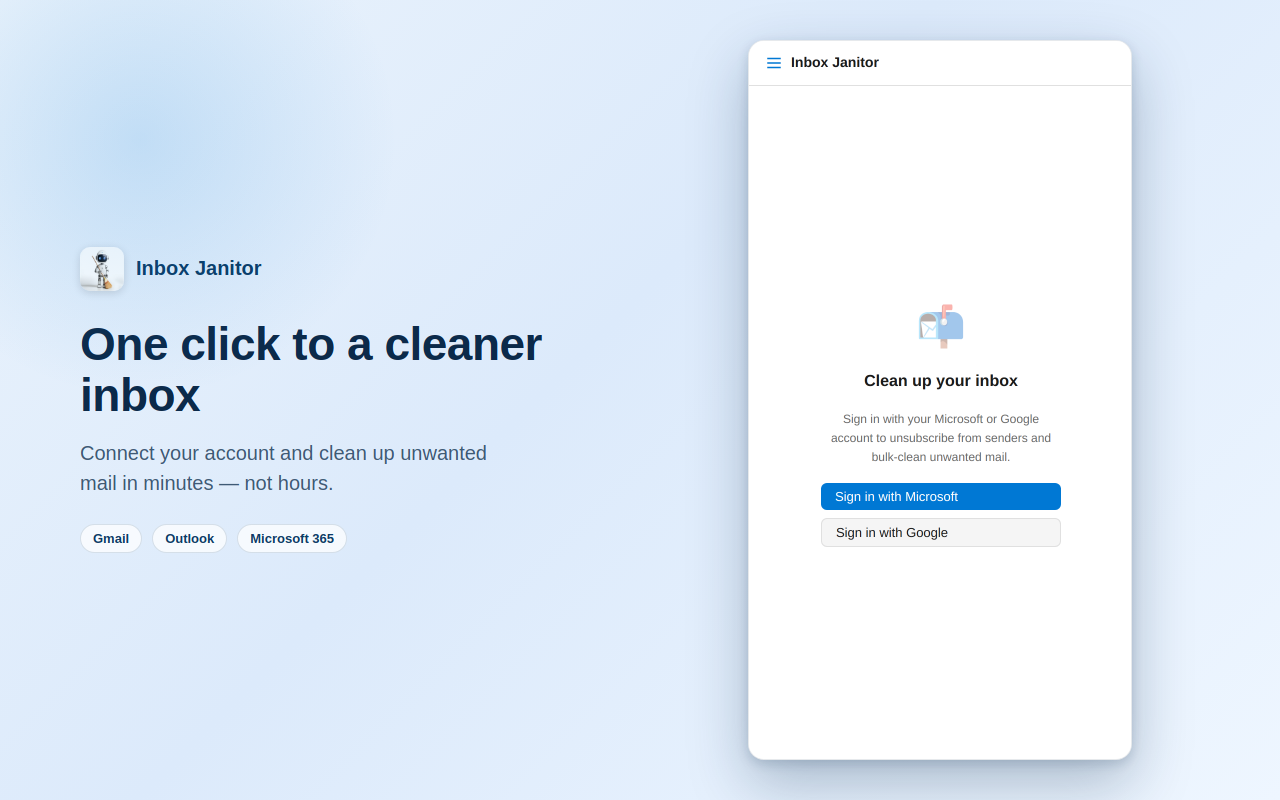
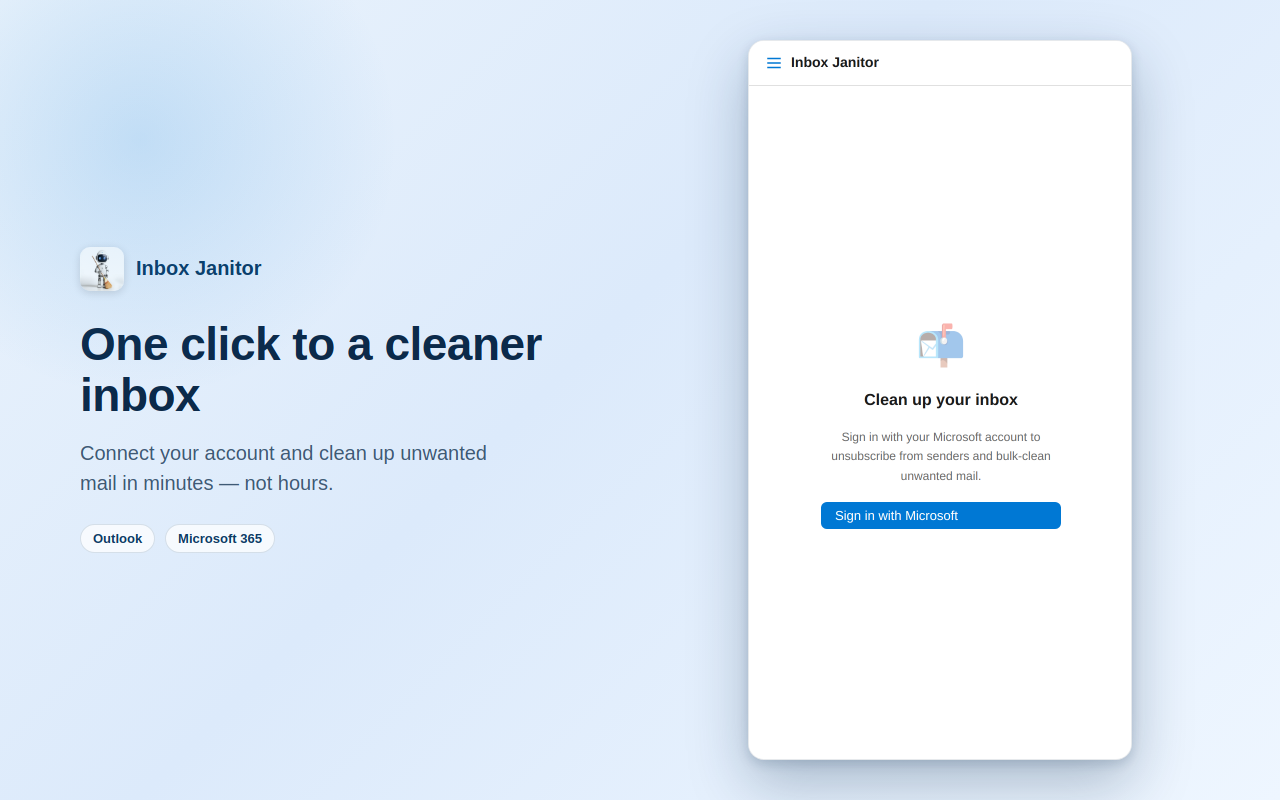
feat: Outlook-only v1.0 launch build (Gmail behind a flag)
Prep a clean public v1.0 that ships Microsoft/Outlook only, since Gmail's
gmail.modify is a Google restricted scope that can't serve the public until
verification is approved. Gmail stays fully coded — just gated off — so v1.1
is a mechanical re-enable.

- config.ts: add GMAIL_ENABLED feature flag (false)
- App.tsx: hide the Google sign-in button and adjust sign-in copy when off
- manifest.json: drop the Google host permissions + oauth2 key and the Gmail
  mention in the description, so v1.0 requests no unused sensitive permissions
  (avoids the #1 review-delay cause). Packaged manifest verified Google-free.
- check-config.mjs + gen-store-assets.mjs: honor the flag (checker no longer
  demands a Google ID; assets drop the Gmail badge/copy) — flip the flag and
  both auto-restore Gmail
- STORE_LISTING.md: revert to Outlook-only copy for the v1.0 submission
- docs/ENABLE_GMAIL_V1.1.md: step-by-step re-enable playbook, including
  optional-permissions so adding Gmail in v1.1 doesn't disrupt existing users
- regenerate store-assets (signed-out now Microsoft-only; Deleted Items copy)

Claude-Session: https://claude.ai/code/session_01BEhcx6Ve2fmbULTRWSwo9K

Changed region(s): [[0.625, 0.375, 0.8438, 0.6875], [0.0625, 0.6562, 0.2812, 0.6875]]

diff --git a/src/sidepanel/App.tsx b/src/sidepanel/App.tsx
@@ -17,7 +17,7 @@ import {
 } from '../gmail/messages.js';
 import { getUnsubscribeHeader, executeUnsubscribe } from '../graph/unsubscribe.js';
 import { getGmailUnsubscribeHeader } from '../gmail/unsubscribe.js';
-import { CACHE_TTL_MS } from '../config.js';
+import { CACHE_TTL_MS, GMAIL_ENABLED } from '../config.js';
 import type {
   AuthTokens,
   SenderGroup,
@@ -524,8 +524,8 @@ export function App() {
           <div class="signed-out-icon">📬</div>
           <h2>Clean up your inbox</h2>
           <p>
-            Sign in with your Microsoft or Google account to unsubscribe from senders and bulk-clean
-            unwanted mail.
+            Sign in with your {GMAIL_ENABLED ? 'Microsoft or Google' : 'Microsoft'} account to
+            unsubscribe from senders and bulk-clean unwanted mail.
           </p>
           <div
             style={{
@@ -544,14 +544,16 @@ export function App() {
             >
               {loading ? 'Signing in…' : 'Sign in with Microsoft'}
             </button>
-            <button
-              class="btn btn-secondary"
-              onClick={() => void handleGoogleSignIn()}
-              disabled={loading}
-              data-testid="sign-in-google-btn"
-            >
-              {loading ? 'Signing in…' : 'Sign in with Google'}
-            </button>
+            {GMAIL_ENABLED && (
+              <button
+                class="btn btn-secondary"
+                onClick={() => void handleGoogleSignIn()}
+                disabled={loading}
+                data-testid="sign-in-google-btn"
+              >
+                {loading ? 'Signing in…' : 'Sign in with Google'}
+              </button>
+            )}
           </div>
           {error && (
             <div class="error-banner" role="alert">

diff --git a/src/config.ts b/src/config.ts
@@ -12,6 +12,12 @@ export const MS_AUTHORITY = `https://login.microsoftonline.com/${MS_TENANT}`;
 
 export const GRAPH_BASE = 'https://graph.microsoft.com/v1.0';
 
+// Feature flag: Gmail / Google sign-in.
+// OFF for the Outlook-only v1.0 public launch — Gmail's `gmail.modify` is a Google
+// restricted scope and cannot serve the public until Google verification is approved.
+// Flip to `true` for v1.1 once verified; full re-enable steps in docs/ENABLE_GMAIL_V1.1.md.
+export const GMAIL_ENABLED = false;
+
 // Core scopes — requested at sign-in. Mail.Send is incremental (requested on demand).
 export const CORE_SCOPES = [
   'openid',

diff --git a/STORE_LISTING.md b/STORE_LISTING.md
@@ -1,95 +1,98 @@
-# Chrome Web Store Listing — Inbox Janitor
+# Chrome Web Store Listing — Inbox Janitor (v1.0, Outlook-only)
+
+> **Launch scope:** v1.0 ships Microsoft/Outlook only. The Gmail additions for the v1.1 listing
+> (extra bullets, "works with Gmail", Google data-handling answers) live in
+> `docs/ENABLE_GMAIL_V1.1.md` — do **not** mention Gmail in the v1.0 submission, since the v1.0 build
+> requests no Google permissions.
 
 ## Name
 Inbox Janitor
 
 ## Short Description (max 132 characters)
-Bulk unsubscribe and clean up your Gmail or Outlook inbox. Group senders, then archive, delete, and unsubscribe in one click.
+Bulk unsubscribe and clean up your Outlook / Microsoft 365 inbox — group senders, archive, delete, or unsubscribe in a click.
 
-*(Current: 125 characters — within limit)*
+*(Current: 124 characters — within limit)*
 
 ## Category
 Productivity
 
 ## Single-Purpose Statement
-Inbox Janitor has a single purpose: to help Gmail, Outlook, and Microsoft 365 users unsubscribe from unwanted senders and bulk-archive or delete email from their inbox.
+Inbox Janitor has a single purpose: to help Outlook and Microsoft 365 users unsubscribe from unwanted senders and bulk-archive or delete email from their inbox.
 
 ## Detailed Description
 
 ```
-📬 Clean your Gmail or Outlook inbox in minutes, not hours.
+📬 Clean your Outlook inbox in minutes, not hours.
 
-Inbox Janitor connects to your Google or Microsoft account and groups your email by sender so you can see at a glance who's filling your inbox. Then clean up with one click.
+Inbox Janitor connects to your Microsoft account and groups your email by sender so you can see at a glance who's filling your inbox. Then clean up with one click.
 
 ✅ FEATURES
 
 • Sender grouping — scan your inbox and see every sender ranked by how many emails they've sent you
 • Bulk unsubscribe — select senders and unsubscribe automatically where supported (one-click RFC 8058), or open the unsubscribe page for you
-• Bulk archive or delete — select multiple senders and archive or move to Trash / Deleted Items in one action, with a live progress bar
-• Fast and safe — confirmation step shows the exact count before any action; archive is the default (recoverable); "delete" moves to Trash / Deleted Items, never a permanent purge
+• Bulk archive or delete — select multiple senders and archive or move to Deleted Items in one action, with a live progress bar
+• Fast and safe — confirmation step shows the exact count before any action; archive is the default (recoverable); "delete" moves to Deleted Items, never a permanent purge
 • Search and sort — filter by name/email, sort by message count, most recent, or A–Z
 
 🔒 PRIVACY FIRST
 
 • Processes email metadata locally in your browser — no email content ever leaves your device to a third-party server
-• Communicates only with the official Gmail API or Microsoft Graph API using your own secure OAuth token
+• Communicates only with the official Microsoft Graph API using your own secure OAuth token
 • No analytics, no tracking, no ads
 • Sign out clears all stored tokens and cached data instantly
 
 📥 WORKS WITH
 
-• Google Gmail (personal and Google Workspace accounts)
 • Personal Outlook (outlook.com, live.com, hotmail.com)
 • Microsoft 365 work and school accounts
 
-Note: Some corporate M365 or Google Workspace tenants require an admin to grant consent for third-party apps. If you see an "Admin approval required" screen, ask your IT administrator to approve Inbox Janitor.
+Note: Some corporate M365 tenants require an IT admin to grant consent for third-party apps. If you see an "Admin approval required" screen, ask your IT administrator to approve Inbox Janitor.
 
 ⚙ HOW IT WORKS
 
 1. Click the Inbox Janitor toolbar button to open the side panel
-2. Sign in with your Google or Microsoft account
+2. Sign in with your Microsoft account
 3. See your senders grouped and ranked
 4. Select senders to unsubscribe, archive, or delete
 5. Done — your inbox is cleaner
 ```
 
 ## Single-Purpose Statement (store form field)
-"Help Gmail, Outlook, and Microsoft 365 users unsubscribe from unwanted senders and bulk-clean their inbox."
+"Help Outlook and Microsoft 365 users unsubscribe from unwanted senders and bulk-clean their inbox."
 
 ## Data Handling Answers (Chrome Web Store form)
 
 **Does your extension collect or use any personal or sensitive user data?**
-Yes — the extension requests access to the user's Google or Microsoft email account via OAuth. It reads email metadata (sender addresses, dates) to build a sender list, and performs actions (archive, delete/trash, unsubscribe) at the user's explicit request.
+Yes — the extension requests access to the user's Microsoft email account via OAuth. It reads email metadata (sender addresses, dates) to build a sender list, and performs actions (archive, delete, unsubscribe) at the user's explicit request.
 
 **What data does your extension collect or transmit?**
-The extension accesses email metadata (sender address, display name, message date, message IDs) and email headers (`From`, `Date`, `List-Unsubscribe` — for unsubscribe parsing). This data is processed locally in the browser. It is not transmitted to any developer-controlled server.
+The extension accesses email metadata (sender address, display name, message date, message IDs) and email headers (for unsubscribe parsing). This data is processed locally in the browser. It is not transmitted to any developer-controlled server.
 
 **How is the data used?**
-Solely to display the sender list in the extension UI and to perform the email-management actions the user requests. No other use. (See the Google API Services Limited Use and Microsoft Graph Limited Use disclosures in the privacy policy.)
+Solely to display the sender list in the extension UI and to perform the email-management actions the user requests. No other use. (See the Microsoft Graph Limited Use disclosure in the privacy policy.)
 
 **How is the data stored?**
 OAuth tokens and a sender-grouping cache are stored in `chrome.storage.local` — local browser storage that is never accessible to the developer. All stored data is cleared on sign-out.
 
 **Do you share the data with third parties?**
-No. The extension communicates only with Google's Gmail API / Microsoft's Graph API and their respective authentication endpoints, which the user is already trusting as their email provider.
+No. The extension communicates only with Microsoft's Graph API and authentication endpoints, which the user is already trusting as their email provider.
 
-## Screenshots Required (capture these before submission)
+## Screenshots (in `store-assets/`)
 
-| # | Description | Recommended size |
+| # | File | Shows |
 |---|---|---|
-| 1 | Signed-out state — "Sign in with Microsoft" button | 1280×800 |
-| 2 | Sender list — showing 10+ senders, ranked by count | 1280×800 |
-| 3 | Multiple senders selected, action bar visible | 1280×800 |
-| 4 | Archive confirmation modal — shows total message count | 1280×800 |
-| 5 | Progress bar during bulk operation | 1280×800 |
+| 1 | `01-signed-out.png` | Signed-out — "Sign in with Microsoft" |
+| 2 | `02-sender-list.png` | Sender list, ranked by message count |
+| 3 | `03-select-and-act.png` | Multiple senders selected, action bar visible |
+| 4 | `04-safe-confirm.png` | Archive confirmation modal — exact message count |
 
-## Promo Tile Required
+All are 1280×800. (Chrome requires 1–5 screenshots.)
 
-- Small promo tile: 440×280 pixels (required for listing)
-- Large promo tile: 920×680 pixels (optional, for featuring)
+## Promo Tiles (in `store-assets/`)
 
-Content suggestion: extension name + tagline "Clean your Outlook inbox in minutes" on a clean, light background with the envelope/inbox icon.
+- Small promo tile — `promo-small-440x280.png` (440×280, required)
+- Marquee promo tile — `promo-marquee-1400x560.png` (1400×560, optional, for featuring)
 
 ## Privacy Policy URL
-[HUMAN SETUP] — Host PRIVACY_POLICY.html at a public URL and paste it here.
-Suggestion: GitHub Pages or your personal domain.
+Host `PRIVACY_POLICY.html` / `docs/index.html` on GitHub Pages and paste the URL here, e.g.
+`https://adityarungta2048.github.io/inbox-janitor/`

diff --git a/docs/ENABLE_GMAIL_V1.1.md b/docs/ENABLE_GMAIL_V1.1.md
@@ -1,0 +1,99 @@
+# Enabling Gmail — v1.1 Playbook
+
+v1.0 ships Outlook-only. Gmail is fully coded and tested but hidden behind a flag, because
+`gmail.modify` is a Google **restricted** scope that can't serve the public until Google's OAuth
+verification is approved. Once it is, turning Gmail on is a ~10-minute mechanical change — no rewrite.
+
+**Prerequisite:** Google restricted-scope verification approved (see `docs/GOOGLE_VERIFICATION.md`)
+and your **Chrome Extension** OAuth client ID in hand.
+
+---
+
+## 1. Flip the feature flag
+
+`src/config.ts`:
+```diff
+-export const GMAIL_ENABLED = false;
++export const GMAIL_ENABLED = true;
+```
+This un-hides the "Sign in with Google" button and updates the sign-in copy automatically.
+
+## 2. Add the Google entries back to `manifest.json`
+
+**Recommended — as _optional_ permissions**, so existing Outlook users are **not** disrupted (adding
+*required* host permissions in an update disables the extension until each user re-accepts; optional
+permissions are requested only when someone actually clicks "Sign in with Google").
+
+Add the `oauth2` key and an `optional_host_permissions` block (leave `host_permissions` as the two
+Microsoft hosts):
+```jsonc
+"optional_host_permissions": [
+  "https://gmail.googleapis.com/*",
+  "https://www.googleapis.com/*",
+  "https://accounts.google.com/*"
+],
+"oauth2": {
+  "client_id": "YOUR_REAL_ID.apps.googleusercontent.com",
+  "scopes": ["openid", "email", "profile", "https://www.googleapis.com/auth/gmail.modify"]
+}
+```
+
+Also re-add Gmail to the manifest `description`:
+```diff
+-"description": "Bulk unsubscribe, group senders, and clean up your Outlook or Microsoft 365 inbox in one click.",
++"description": "Bulk unsubscribe, group senders, and clean up your Outlook or Gmail inbox in one click.",
+```
+
+## 3. Request the optional permissions at sign-in
+
+Because the Gmail hosts are now *optional*, grant them at runtime from the button's user gesture.
+In `src/sidepanel/App.tsx`, at the top of `handleGoogleSignIn`, before `googleSignIn()`:
+```ts
+const granted = await chrome.permissions.request({
+  origins: [
+    'https://gmail.googleapis.com/*',
+    'https://www.googleapis.com/*',
+    'https://accounts.google.com/*',
+  ],
+});
+if (!granted) {
+  setError('Gmail access was not granted.');
+  setLoading(false);
+  return;
+}
+```
+(If you'd rather keep it simple and you have few users at v1.1 time, you can instead move the three
+hosts into the regular `host_permissions` and skip this step — but expect existing users to get a
+re-approval prompt on update.)
+
+## 4. Bump the version
+
+`manifest.json` and `package.json`:
+```diff
+-"version": "1.0.0"
++"version": "1.1.0"
+```
+
+## 5. Verify, regenerate assets, package
+
+```bash
+npm run check:config     # now requires the Google client ID too — should be green
+npm run ci               # build + typecheck + lint + test
+node scripts/gen-store-assets.mjs   # screenshots/promo auto-restore the Gmail badge + copy
+npm run package
+```
+
+## 6. Update the store listing
+
+Switch `STORE_LISTING.md` back to the dual-provider copy (Gmail + Outlook). The exact text to restore:
+
+- **Short description:** `Bulk unsubscribe and clean up your Gmail or Outlook inbox. Group senders, then archive, delete, and unsubscribe in one click.`
+- **Detailed description:** re-add the "Google Gmail (personal and Google Workspace accounts)" line under **WORKS WITH**, change the opener to "Clean your Gmail or Outlook inbox", and "Sign in with your Google or Microsoft account".
+- **Data-handling answers:** re-add Google/Gmail alongside Microsoft (the extension now reads Gmail metadata and modifies labels via `gmail.modify`).
+- Set the Google publishing status to **In production** once verification is approved.
+
+## 7. Submit the update
+
+Upload the new zip. The update is re-reviewed (adding Google permissions triggers a permissions
+review), but the Outlook functionality is unchanged. Existing users keep working; Gmail becomes
+available to everyone.

diff --git a/PERMISSIONS_JUSTIFICATION.md b/PERMISSIONS_JUSTIFICATION.md
@@ -3,6 +3,11 @@
 This document explains each permission and host permission requested by Inbox Janitor, as required
 by the Chrome Web Store review process.
 
+> **v1.0 scope:** The Outlook-only v1.0 build requests **only** the Microsoft entries below
+> (`identity`, `storage`, `sidePanel`, and the two `*.microsoft*.com` / `login.microsoftonline.com`
+> hosts). The **Google** host permissions and the `gmail.modify` scope are requested starting in
+> **v1.1**, when Gmail is enabled after Google verification — see `docs/ENABLE_GMAIL_V1.1.md`.
+
 ## Extension Permissions
 
 | Permission | Justification |
